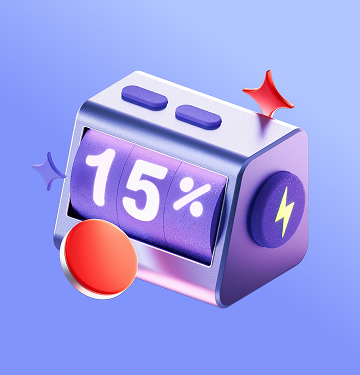
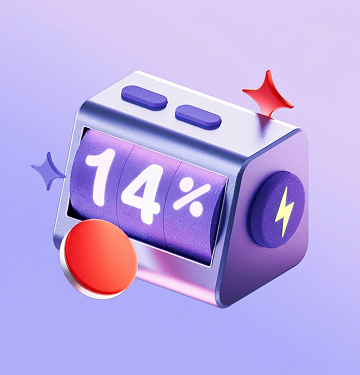
Add shared Supabase-backed analytics and fix dvh tab bar gap
- /stats now aggregates every participant via a shared Supabase table
  instead of just this browser's localStorage, with automatic fallback
  when Supabase isn't configured.
- Fix bottom tab bar floating with a gap below it on mobile by switching
  the fixed-height "cubes" screens from 100svh to 100dvh.
- Update Кешбокс product detail hero image.

diff --git a/web/lib/analytics.ts b/web/lib/analytics.ts
@@ -1,7 +1,12 @@
 /**
- * Lightweight client-only analytics for the prototype — no backend, so
- * events are appended to localStorage and read back by /stats. Capped at
- * MAX_EVENTS so a long test session can't grow it unbounded.
+ * Lightweight analytics for the prototype. Every event is appended to this
+ * browser's localStorage (instant, always works) and — when
+ * NEXT_PUBLIC_SUPABASE_URL / NEXT_PUBLIC_SUPABASE_ANON_KEY are set at build
+ * time — also sent to a shared Supabase table, so /stats can show every
+ * participant's session, not just this device's. See web/supabase/schema.sql
+ * for the table + RLS policies, and README-analytics.md for setup.
+ * Without those env vars (e.g. plain local dev) it silently falls back to
+ * localStorage-only, exactly like before.
  */
 
 export type Scenario = "anon" | "uprid" | "identified" | "has_products" | null;
@@ -45,6 +50,14 @@ const PID_KEY = "nakoplen_pid";
 const SCENARIO_KEY = "nakoplen_scenario";
 const MAX_EVENTS = 6000;
 
+const SUPABASE_URL = process.env.NEXT_PUBLIC_SUPABASE_URL;
+const SUPABASE_ANON_KEY = process.env.NEXT_PUBLIC_SUPABASE_ANON_KEY;
+const REMOTE_TABLE = "events";
+
+export function isRemoteConfigured(): boolean {
+  return !!(SUPABASE_URL && SUPABASE_ANON_KEY);
+}
+
 function readEvents(): AnalyticsEvent[] {
   if (typeof window === "undefined") return [];
   try {
@@ -63,14 +76,85 @@ function writeEvents(events: AnalyticsEvent[]) {
   }
 }
 
+/** Flat row shape matching web/supabase/schema.sql's `events` table. */
+function toRow(e: AnalyticsEvent) {
+  return {
+    pid: e.pid,
+    scenario: e.scenario,
+    ts: e.timestamp,
+    type: e.type,
+    path: e.type === "click" || e.type === "screen_time" || e.type === "scroll_depth" ? e.path : null,
+    duration_ms: e.type === "screen_time" ? e.durationMs : null,
+    x_norm: e.type === "click" ? e.xNorm : null,
+    y_page: e.type === "click" ? e.yPage : null,
+    rage_click: e.type === "click" ? e.rageClick : null,
+    dead_click: e.type === "click" ? e.deadClick : null,
+    max_depth_percent: e.type === "scroll_depth" ? e.maxDepthPercent : null,
+  };
+}
+
+function fromRow(r: Record<string, unknown>): AnalyticsEvent | null {
+  const base = { pid: r.pid as string, scenario: (r.scenario as Scenario) ?? null, timestamp: r.ts as number };
+  switch (r.type) {
+    case "screen_time":
+      return { ...base, type: "screen_time", path: r.path as string, durationMs: r.duration_ms as number };
+    case "click":
+      return {
+        ...base,
+        type: "click",
+        path: r.path as string,
+        xNorm: r.x_norm as number,
+        yPage: r.y_page as number,
+        rageClick: !!r.rage_click,
+        deadClick: !!r.dead_click,
+      };
+    case "scroll_depth":
+      return { ...base, type: "scroll_depth", path: r.path as string, maxDepthPercent: r.max_depth_percent as number };
+    default:
+      return null;
+  }
+}
+
+/** Fire-and-forget insert into the shared Supabase table. `keepalive` lets
+ *  this survive the page-hide/beforeunload flush that fires on tab close. */
+function pushRemote(event: AnalyticsEvent) {
+  if (!SUPABASE_URL || !SUPABASE_ANON_KEY) return;
+  fetch(`${SUPABASE_URL}/rest/v1/${REMOTE_TABLE}`, {
+    method: "POST",
+    keepalive: true,
+    headers: {
+      "Content-Type": "application/json",
+      apikey: SUPABASE_ANON_KEY,
+      Authorization: `Bearer ${SUPABASE_ANON_KEY}`,
+      Prefer: "return=minimal",
+    },
+    body: JSON.stringify(toRow(event)),
+  }).catch(() => {
+    // best-effort telemetry — dropped events don't block the UI
+  });
+}
+
 export function logEvent(event: AnalyticsEvent) {
   const events = readEvents();
   events.push(event);
   writeEvents(events);
+  pushRemote(event);
 }
 
-export function getEvents(): AnalyticsEvent[] {
-  return readEvents();
+/** Every participant's events when Supabase is configured, falling back to
+ *  this browser's localStorage otherwise (or if the fetch fails). */
+export async function fetchAllEvents(): Promise<AnalyticsEvent[]> {
+  if (!SUPABASE_URL || !SUPABASE_ANON_KEY) return readEvents();
+  try {
+    const res = await fetch(`${SUPABASE_URL}/rest/v1/${REMOTE_TABLE}?select=*&order=ts.asc`, {
+      headers: { apikey: SUPABASE_ANON_KEY, Authorization: `Bearer ${SUPABASE_ANON_KEY}` },
+    });
+    if (!res.ok) throw new Error(`Supabase fetch failed: ${res.status}`);
+    const rows = (await res.json()) as Record<string, unknown>[];
+    return rows.map(fromRow).filter((e): e is AnalyticsEvent => e !== null);
+  } catch {
+    return readEvents();
+  }
 }
 
 export function clearEvents() {

diff --git a/web/app/stats/page.tsx b/web/app/stats/page.tsx
@@ -4,7 +4,8 @@ import Link from "next/link";
 import { useEffect, useMemo, useRef, useState } from "react";
 import {
   clearEvents,
-  getEvents,
+  fetchAllEvents,
+  isRemoteConfigured,
   startNewParticipant,
   type AnalyticsEvent,
   type ClickEvent,
@@ -364,7 +365,7 @@ export default function StatsPage() {
   const [selectedPath, setSelectedPath] = useState<string | null>(null);
 
   useEffect(() => {
-    setEvents(getEvents());
+    fetchAllEvents().then(setEvents);
   }, []);
 
   const allEvents = events ?? [];
@@ -383,8 +384,10 @@ export default function StatsPage() {
 
   function handleClear() {
     clearEvents();
-    setEvents([]);
     setSelectedPath(null);
+    // Only wipes this browser's local cache — the shared Supabase table (if
+    // configured) is untouched, so re-fetch instead of zeroing the view.
+    fetchAllEvents().then(setEvents);
   }
 
   function handleNewParticipant() {
@@ -407,7 +410,10 @@ export default function StatsPage() {
       <Link href="/" style={{ fontFamily: "'MTS Compact', sans-serif", fontSize: 14, color: S.purple, textDecoration: "none" }}>← Сценарии</Link>
       <p style={{ fontFamily: "'MTS Wide', sans-serif", fontWeight: 500, fontSize: 24, color: S.textPrimary, margin: "8px 0 4px" }}>Аналитика прототипа</p>
       <p style={{ fontFamily: "'MTS Compact', sans-serif", fontSize: 14, color: S.textSecondary, margin: "0 0 20px" }}>
-        Время на экране, клики, тепловая карта. Копится в localStorage этого браузера.
+        Время на экране, клики, тепловая карта.{" "}
+        {isRemoteConfigured()
+          ? "Общие данные всех участников, заходивших по ссылке."
+          : "Копится в localStorage этого браузера (Supabase не настроен — см. web/README-analytics.md)."}
       </p>
 
       <div style={{ display: "flex", gap: 8, marginBottom: 8 }}>
@@ -415,7 +421,7 @@ export default function StatsPage() {
           Экспорт JSON
         </button>
         <button onClick={handleClear} style={{ flex: 1, height: 40, background: S.fieldBg, border: `1px solid ${S.fieldBorder}`, borderRadius: 12, color: S.red, fontFamily: "'MTS Compact', sans-serif", fontSize: 13, cursor: "pointer" }}>
-          Очистить всё
+          {isRemoteConfigured() ? "Очистить кеш устройства" : "Очистить всё"}
         </button>
       </div>
       <button

diff --git a/web/app/home-anon/page.tsx b/web/app/home-anon/page.tsx
@@ -84,7 +84,7 @@ export default function HomeAnonPage() {
   const [promoClosed, setPromoClosed] = useState(false);
 
   return (
-    <div className="page-enter phone-width" style={{ height: "calc(100svh - env(safe-area-inset-top) - env(safe-area-inset-bottom))", paddingTop: "env(safe-area-inset-top)", display: "flex", flexDirection: "column", background: "#000", overflow: "hidden", position: "relative" }}>
+    <div className="page-enter phone-width" style={{ height: "calc(100dvh - env(safe-area-inset-top) - env(safe-area-inset-bottom))", paddingTop: "env(safe-area-inset-top)", display: "flex", flexDirection: "column", background: "#000", overflow: "hidden", position: "relative" }}>
 
       {/* ─── scrollable area ─── */}
       <div style={{ flex: 1, overflowY: "auto", overflowX: "hidden", paddingBottom: 86, background: "#000000" }}>

diff --git a/web/app/home-identified/page.tsx b/web/app/home-identified/page.tsx
@@ -80,7 +80,7 @@ export default function HomeIdentifiedPage() {
   const [promoClosed, setPromoClosed] = useState(false);
 
   return (
-    <div className="page-enter phone-width" style={{ height: "calc(100svh - env(safe-area-inset-top) - env(safe-area-inset-bottom))", paddingTop: "env(safe-area-inset-top)", display: "flex", flexDirection: "column", background: "#000", overflow: "hidden", position: "relative" }}>
+    <div className="page-enter phone-width" style={{ height: "calc(100dvh - env(safe-area-inset-top) - env(safe-area-inset-bottom))", paddingTop: "env(safe-area-inset-top)", display: "flex", flexDirection: "column", background: "#000", overflow: "hidden", position: "relative" }}>
 
       {/* ─── scrollable area ─── */}
       <div style={{ flex: 1, overflowY: "auto", overflowX: "hidden", paddingBottom: 86, background: "#000000" }}>

diff --git a/web/app/home-uprid/page.tsx b/web/app/home-uprid/page.tsx
@@ -81,7 +81,7 @@ export default function HomeUpridPage() {
   const [promoClosed, setPromoClosed] = useState(false);
 
   return (
-    <div className="page-enter phone-width" style={{ height: "calc(100svh - env(safe-area-inset-top) - env(safe-area-inset-bottom))", paddingTop: "env(safe-area-inset-top)", display: "flex", flexDirection: "column", background: "#000", overflow: "hidden", position: "relative" }}>
+    <div className="page-enter phone-width" style={{ height: "calc(100dvh - env(safe-area-inset-top) - env(safe-area-inset-bottom))", paddingTop: "env(safe-area-inset-top)", display: "flex", flexDirection: "column", background: "#000", overflow: "hidden", position: "relative" }}>
 
       {/* ─── scrollable area ─── */}
       <div style={{ flex: 1, overflowY: "auto", overflowX: "hidden", paddingBottom: 86, background: "#000000" }}>

diff --git a/web/app/home/page.tsx b/web/app/home/page.tsx
@@ -76,7 +76,7 @@ export default function HomePage() {
   const [promoClosed, setPromoClosed] = useState(false);
 
   return (
-    <div className="page-enter phone-width" style={{ height: "calc(100svh - env(safe-area-inset-top) - env(safe-area-inset-bottom))", paddingTop: "env(safe-area-inset-top)", display: "flex", flexDirection: "column", background: "#000", overflow: "hidden", position: "relative" }}>
+    <div className="page-enter phone-width" style={{ height: "calc(100dvh - env(safe-area-inset-top) - env(safe-area-inset-bottom))", paddingTop: "env(safe-area-inset-top)", display: "flex", flexDirection: "column", background: "#000", overflow: "hidden", position: "relative" }}>
 
       {/* ─── scrollable area ─── */}
       <div style={{ flex: 1, overflowY: "auto", overflowX: "hidden", paddingBottom: 86, background: "#000000" }}>

diff --git a/web/app/products/page.tsx b/web/app/products/page.tsx
@@ -92,7 +92,7 @@ function ProductsPageInner() {
   const catalogHref = `/catalog${CATALOG_QUERY[from] ?? ""}`;
 
   return (
-    <div className="page-enter phone-width" style={{ height: "calc(100svh - env(safe-area-inset-top) - env(safe-area-inset-bottom))", paddingTop: "env(safe-area-inset-top)", display: "flex", flexDirection: "column", background: "#000", overflow: "hidden", position: "relative" }}>
+    <div className="page-enter phone-width" style={{ height: "calc(100dvh - env(safe-area-inset-top) - env(safe-area-inset-bottom))", paddingTop: "env(safe-area-inset-top)", display: "flex", flexDirection: "column", background: "#000", overflow: "hidden", position: "relative" }}>
 
       <div style={{ flex: 1, overflowY: "auto", overflowX: "hidden", paddingBottom: 86 }}>
 

diff --git a/web/README-analytics.md b/web/README-analytics.md
@@ -1,0 +1,21 @@
+# Shared analytics setup (Supabase)
+
+Without setup, `/stats` only shows events from the current browser
+(`localStorage`). To see every participant who opens the GitHub Pages link:
+
+1. Create a free project at [supabase.com](https://supabase.com).
+2. Project → **SQL Editor** → run [`supabase/schema.sql`](supabase/schema.sql).
+3. Project → **Settings → API** → copy the **Project URL** and the **anon
+   public** key.
+4. Add them as repo secrets (Settings → Secrets and variables → Actions) so
+   the GitHub Pages build picks them up:
+   - `SUPABASE_URL`
+   - `SUPABASE_ANON_KEY`
+5. For local dev / the ngrok prod server, copy `.env.local.example` to
+   `.env.local` in `web/` and fill in the same two values.
+
+Once deployed, every device that opens the prototype link writes its events
+to the shared `events` table, and `/stats` reads all of them. The anon key is
+meant to be public — it ends up in the deployed JS bundle either way — Row
+Level Security (from the schema) is what keeps writes append-only and blocks
+edits/deletes.